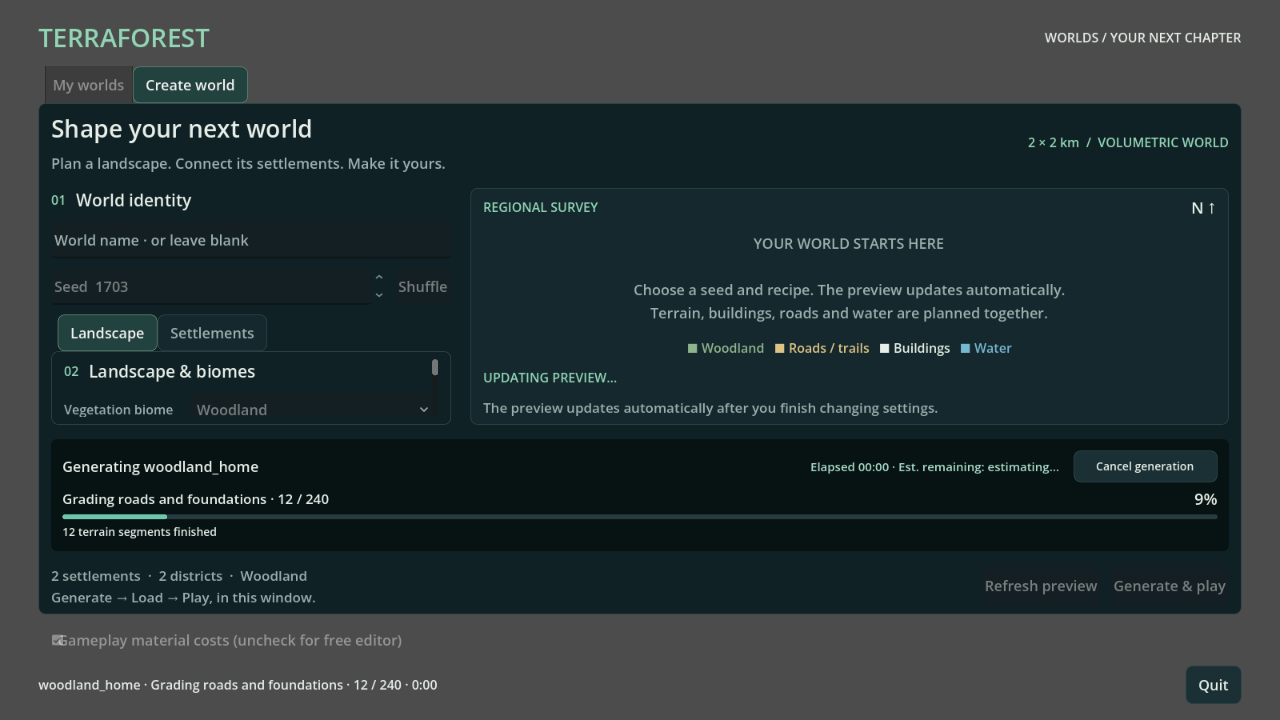
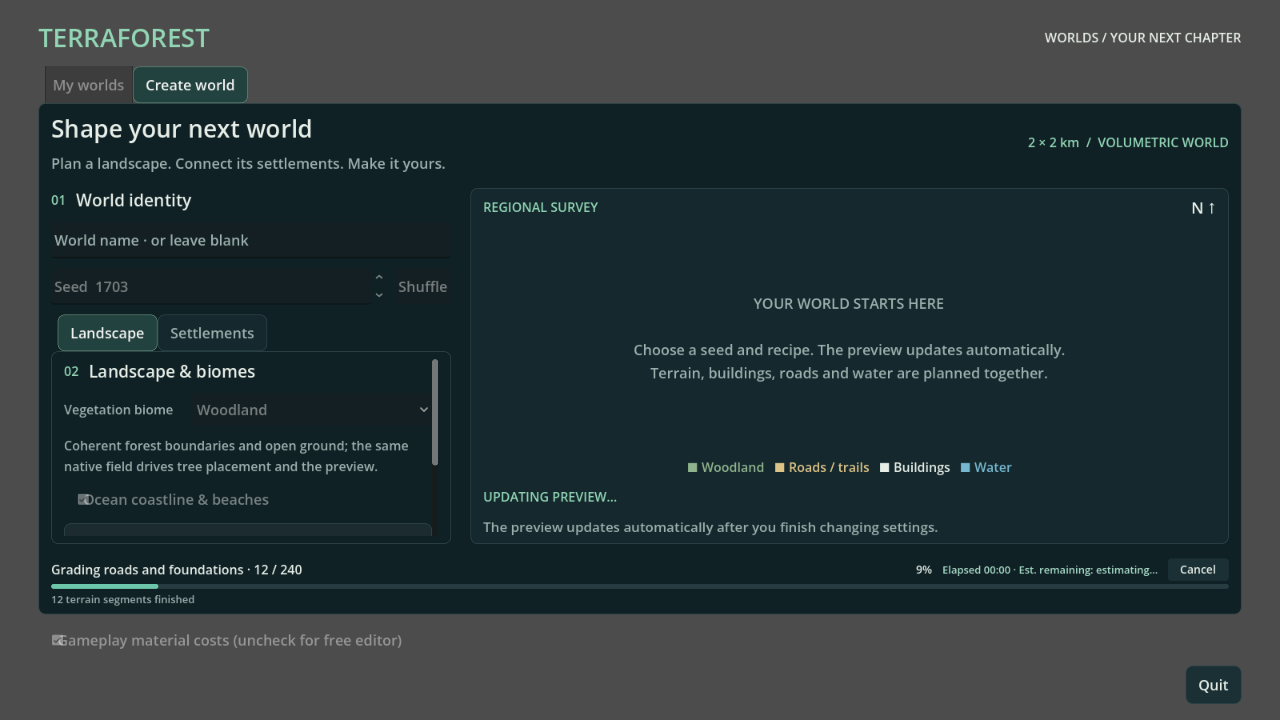
Compact the Create world generation UI into an inline footer

diff --git a/TerraForest/docs/evidence/create_world_tab/README.md b/TerraForest/docs/evidence/create_world_tab/README.md
@@ -26,6 +26,18 @@ Run using `python tools/run_godot_check.py <test> --godot <engine> --timeout <se
 | `world_browser_generation` | `20261026T062847619383Z` | Actual seed-50 creation, verification, publication and playable load; waits for preview, stays in Create world, preserves timing and then uses normal loading. Also rejects an injected failed publication. |
 | `world_creation_ui` | `20261026T062932265821Z` | Automatic preview, debounce, edits during active work, latest-recipe identity and layout at both resolutions. |
 
+The initial tall card was rejected for wasted vertical space. The compact
+revision replaces the entire card with a transparent footer strip: stage,
+percentage, timing and Cancel share one row above the bar. Work details use one
+optional clipped line with the full text in its tooltip. The repeated heading,
+disabled action footer and duplicate status message are hidden during generation.
+The strip is checked to remain at most 64 logical pixels high at both resolutions.
+
+Compact revision checks passed: `world_browser_progress`
+(`20261026T063709843637Z`), actual `world_browser_cancel`
+(`20261026T063721119035Z`), and unchanged regular `loading_progress_ui`
+(`20261026T063819221051Z`). The images below show this revision.
+
 Inspected images: [actual generation](generating_1920x1080.png),
 [controlled progress at 720p](progress_1280x720.png), and
 [automatic native preview at 720p](automatic_preview_1280x720.png).
